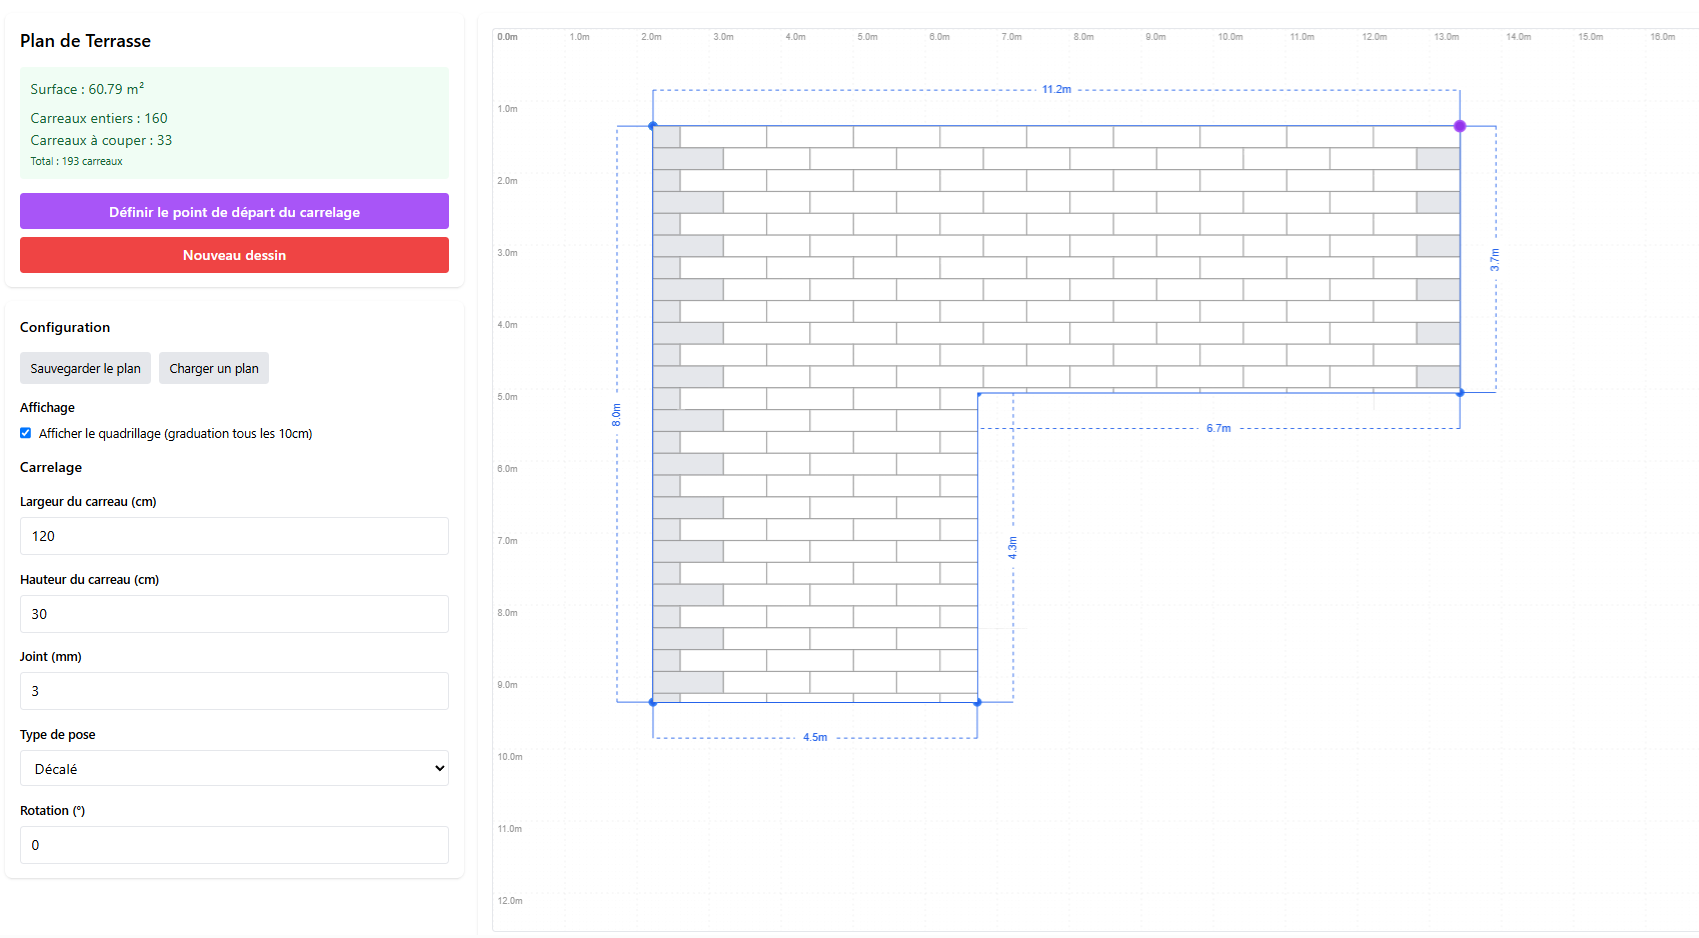
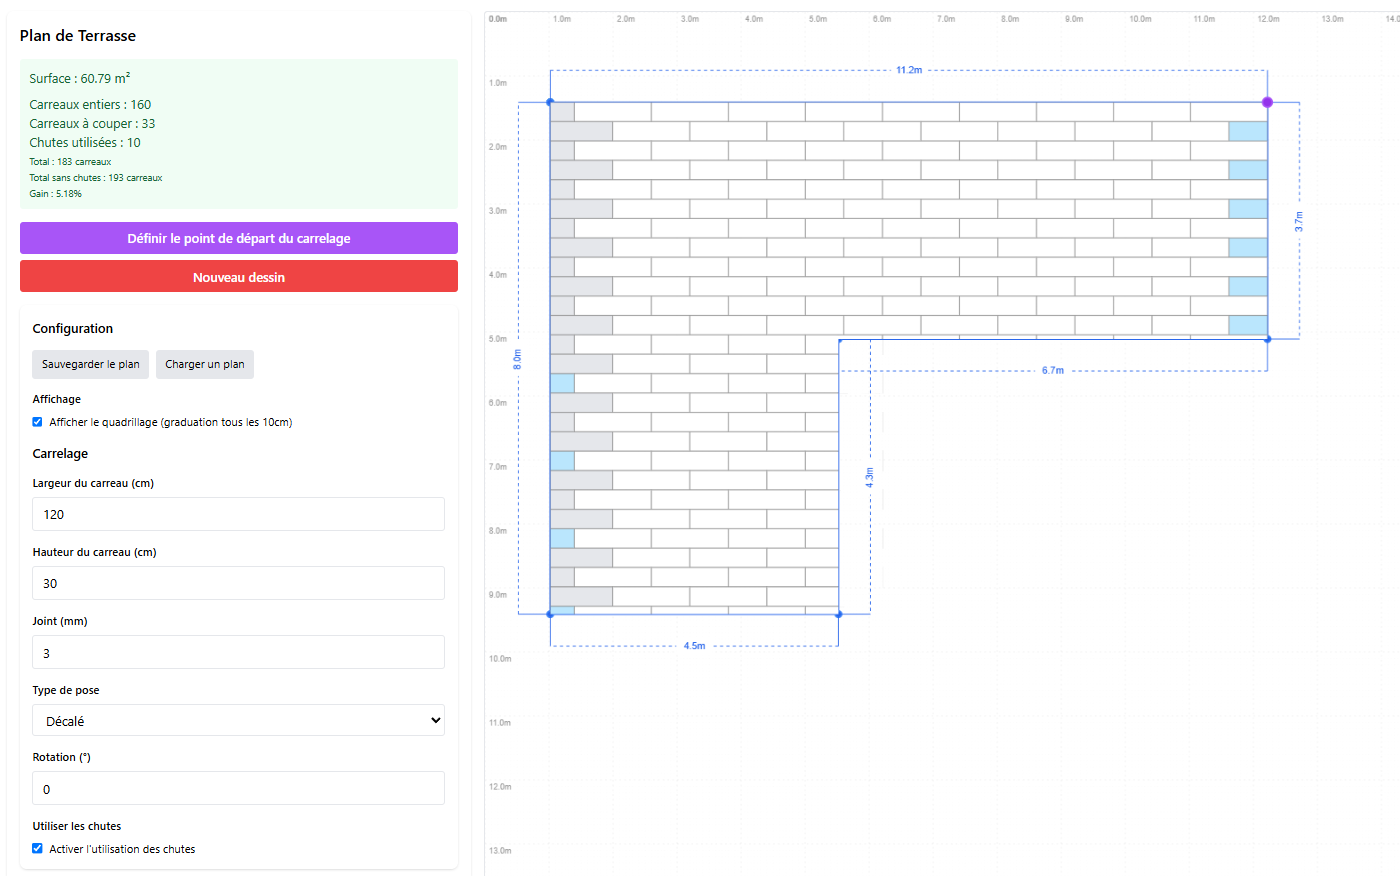
docs: mise à jour du README avec présentation fonctionnelle, architecture, organisation du code et instructions d'installation/utilisation

diff --git a/readme.md b/readme.md
@@ -1,30 +1,56 @@
 # Terrasse Planner
 
-**Terrasse Planner** est une application web intuitive pour dessiner la forme de votre terrasse, calculer sa surface, et simuler la pose de carrelage selon vos paramètres (dimensions, joints, orientation, type de pose, etc.).
+Terrasse Planner est une application web de calepinage de terrasse, pensée pour les particuliers et professionnels souhaitant planifier la pose de carrelage ou de dalles sur une terrasse de forme libre à angles droits.
 
 ---
 
-## ✨ Fonctionnalités principales
+## Fonctionnalités principales
 
-- **Dessin interactif** : Tracez la forme de votre terrasse (polygone à angles droits) à la souris.
-- **Échelle personnalisable** : Ajustez l'échelle (pixels/mètre) pour des dimensions réelles.
-- **Simulation de carrelage** :
-  - Choisissez la taille des carreaux, l'espacement des joints, l'orientation et le type de pose (aligné ou décalé).
-  - Définissez le point de départ du calepinage.
-  - Visualisez le calepinage en temps réel.
-- **Calcul automatique** :
+- **Dessin interactif** : Définissez la forme de votre terrasse à la souris (polygone à angles droits).
+- **Configuration du carrelage** :
+  - Largeur, hauteur des carreaux (en cm)
+  - Largeur des joints (en mm)
+  - Type de pose : alignée ou décalée (quinconce)
+  - Orientation (rotation en degrés)
+  - Point de départ du calepinage (sélection d’un coin)
+  - Option d’utilisation des chutes pour optimiser le nombre de carreaux
+- **Visualisation en temps réel** :
+  - Affichage du calepinage, des carreaux entiers, partiels, et des chutes réutilisées
+  - Quadrillage métrique (graduation tous les 10 cm)
+  - Affichage dynamique des dimensions et des distances
+- **Calculs automatiques** :
   - Surface de la terrasse
-  - Nombre de carreaux entiers et à couper
+  - Nombre de carreaux entiers, à couper, chutes utilisées, total, gain
   - Dimensions affichées sur le plan
-- **Quadrillage** : Affichage optionnel d'un quadrillage métrique (graduation tous les 10 cm).
+- **Sauvegarde/chargement** :
+  - Export et import du plan au format JSON
 
 ---
 
-## 🚀 Installation rapide
+## Architecture technique
+
+- **React** (front-end, logique d’UI et d’état)
+- **Vite** (outillage et serveur de développement)
+- **react-konva** (canvas interactif pour le dessin et le calepinage)
+- **Tailwind CSS** (mise en forme rapide et responsive)
+
+### Organisation du code
+
+- `src/App.jsx` : composant principal, gestion des états globaux et orchestration
+- `src/Sidebar.jsx` : panneau latéral (configuration, résumé, actions)
+- `src/DrawingCanvas.jsx` : canvas interactif (dessin, calepinage, rendu)
+- `src/useDrawing.jsx` : hook personnalisé pour la gestion du dessin et des points
+- `src/useTiles.jsx` : hook personnalisé pour la logique de calepinage et le calcul des carreaux
+- `src/index.jsx` : point d’entrée React
+- `src/index.css` : styles globaux (via Tailwind)
+
+---
+
+## Prise en main rapide
 
 ```bash
 # Clonez le dépôt
-git clone https://github.com/ClementV78/terrasse-planner.git
+git clone <url-du-repo> # ou votre fork
 cd terrasse-planner
 
 # Installez les dépendances
@@ -34,38 +60,30 @@ npm install
 npm run dev
 ```
 
-Ouvrez ensuite votre navigateur à l'adresse [http://localhost:3000](http://localhost:3000).
+Ouvrez ensuite votre navigateur à l’adresse indiquée (souvent http://localhost:5173).
 
 ---
 
-## 🖱 Guide d'utilisation
+## Utilisation
 
-1. **Nouveau dessin** : Cliquez sur "Nouveau dessin" puis placez les points de la terrasse (angles droits uniquement).
-2. **Fermer la forme** : Cliquez près du point de départ pour fermer la terrasse.
-3. **Configurer le carrelage** :
+1. **Démarrez un nouveau dessin** : cliquez sur "Nouveau dessin" puis placez les points de la terrasse (angles droits uniquement).
+2. **Fermez la forme** : cliquez près du point de départ pour fermer la terrasse.
+3. **Configurez le carrelage** :
    - Renseignez largeur, hauteur, joint, type de pose, rotation.
    - Cliquez sur "Définir le point de départ du calepinage" puis sélectionnez un coin.
-4. **Visualisation** :
-   - Le calepinage s'affiche automatiquement.
-   - Les dimensions et le nombre de carreaux sont indiqués.
+4. **Visualisez le calepinage** :
+   - Les carreaux s’affichent en temps réel, avec les dimensions et le nombre de carreaux calculés automatiquement.
+5. **Sauvegardez ou chargez un plan** : utilisez les boutons dédiés pour exporter/importer votre configuration.
 
 ---
 
-## 🛠 Technologies
-- [React](https://react.dev/)
-- [Vite](https://vitejs.dev/)
-- [react-konva](https://konvajs.org/docs/react/index.html) (canvas interactif)
-- [Tailwind CSS](https://tailwindcss.com/)
+## Capture d’écran
+
+![Aperçu de l’application](image.png)
 
 ---
 
-## 📸 Capture d'écran
-
-> ![screenshot](image.png)
-
----
-
-## 🤝 Contribuer
+## Contribution
 
 Les contributions sont les bienvenues !
 - Forkez le projet
@@ -75,15 +93,9 @@ Les contributions sont les bienvenues !
 
 ---
 
-## 📄 Licence
+## Licence
 
-Ce projet est sous licence MIT.
-
----
-
-## 👤 Auteur
-
-- [ClementV78](https://github.com/ClementV78)
+MIT
 
 ---
 
